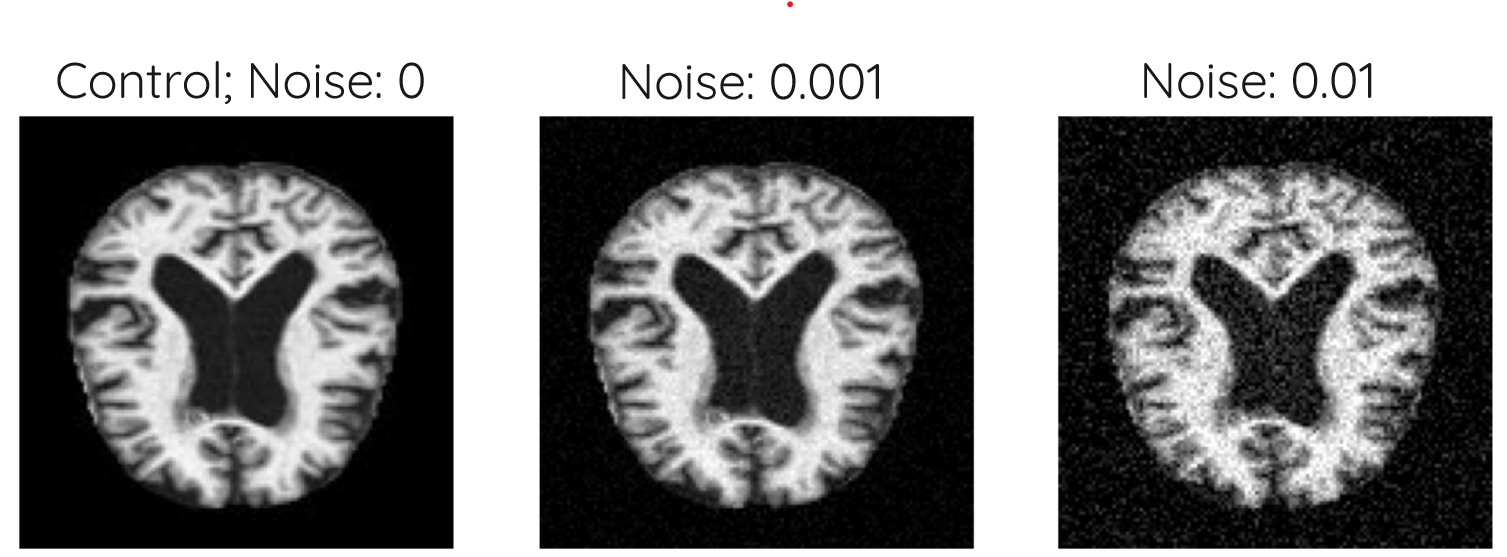
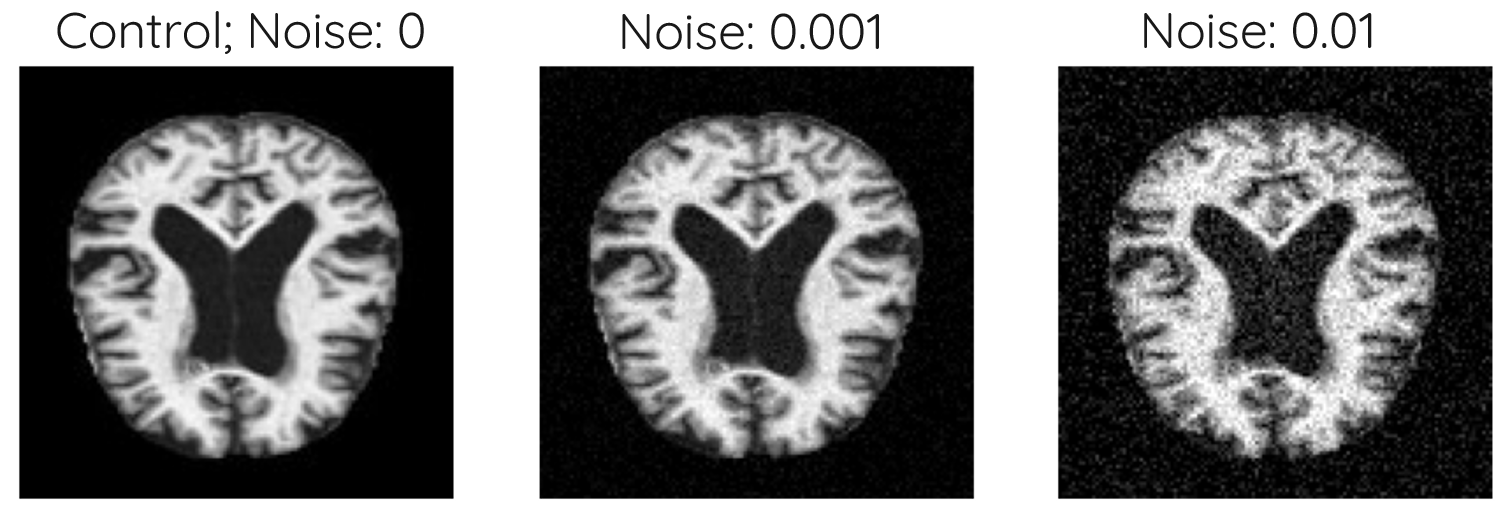
Added references and fixed issues with images

diff --git a/README.md b/README.md
@@ -69,3 +69,14 @@ Grid search and cross validation methods were employed to ensure that all of the
 - [ ] Translate reports to English.
 - [ ] Organize each model in a different file.
 
+## References 
+
+* https://repositorio.unesp.br/bitstream/handle/11449/151042/padovese_bt_me_sjrp.pdf?sequence=3&isAllowed=y
+
+* GAION, João Pedro de Barros Fernandes. Doença de Alzheimer: saiba mais sobre a principal causa de demência no mundo. saiba mais sobre a principal causa de demência no mundo. 2020. Disponível em: https://www.informasus.ufscar.br/doenca-de-alzheimer-saiba-mais-sobre-a-principal-causa-de-demencia-no-mundo/. Acesso em: 20 abr. 2022.
+
+* ALZHEIMER'S ASSOCIATION. Alzheimer e demência no Brasil. 20--?. Disponível em: https://www.alz.org/br/demencia-alzheimer-brasil.asp. Acesso em: 20 abr. 2022.
+
+* NAZARÉ, Thiago Santana de, et. al. Deep Convolutional Neural Networks and Noisy Images. Disponível em: https://sites.icmc.usp.br/moacir/papers/Nazare_CIARP2017_DNN-Noise.pdf. Acesso em: 22 abr. 2022.
+
+* CNN Model Architecture: https://ieeexplore.ieee.org/document/9215402
